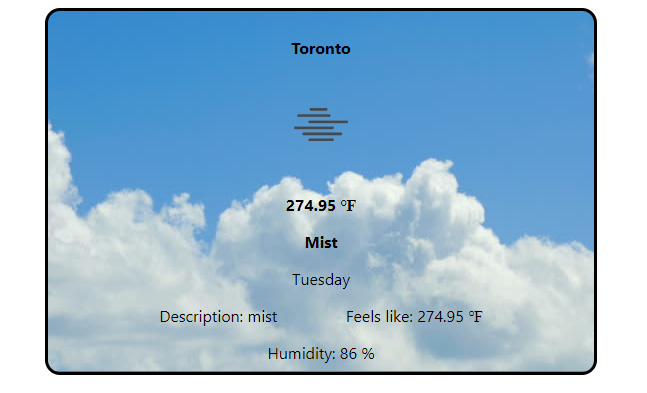
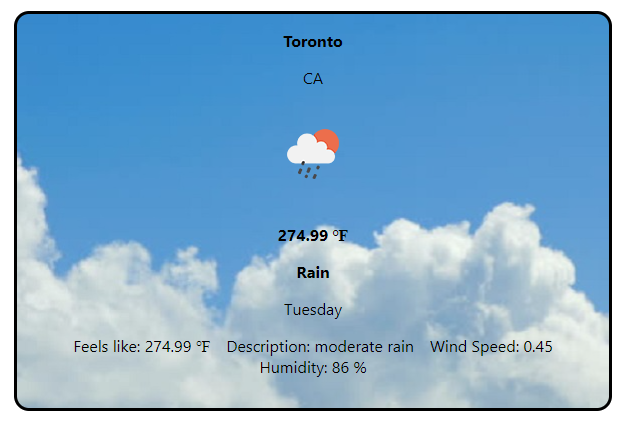
files updated!

diff --git a/src/Weather.js b/src/Weather.js
@@ -25,6 +25,9 @@ export default function GetWeather() {
                 feels_like: res.data.main.feels_like,
                 humidity: res.data.main.humidity,
                 name: res.data.name,
+                country: res.data.sys.country,
+                wind_speed: res.data.wind.speed,
+                time: res.data.timezone,
              })
         })
         .catch(error => console.log(error))
@@ -33,14 +36,18 @@ export default function GetWeather() {
     return (
         <div class='mainScreen'>
             <p class="bold">{weather.name}</p>
+            <p>{weather.country}</p>
             <div>
                 <img src={icon} alt='weatherIcon'/>
                 <p class="bold">{weather.temp} ℉</p>
                 <p class="bold">{weather.main}</p>
                 <p>{weekDay}</p>
                 <div>
-                    <p>Description: {weather.description} <tab>Feels like: {weather.feels_like} ℉ </tab>  </p>
-                    <p>Humidity: {weather.humidity} %</p>
+                    <p>
+                        Feels like: {weather.feels_like} ℉<tab>Description: {weather.description}</tab>
+                        <tab>Wind Speed: {weather.wind_speed}</tab><br/>
+                        Humidity: {weather.humidity} %
+                    </p>
                 </div>
             </div>
         </div>

diff --git a/src/App.css b/src/App.css
@@ -41,10 +41,9 @@
   background-image: url("sky.jpg");
   margin: auto;
   width: 80vh;
-  height: 52vh;
+  height: 60vh;
   border: solid;
   border-radius: 15px;
-  padding: 10px;
 }
 
 .bold {
@@ -57,5 +56,9 @@ button {
 }
 
 tab { 
-  padding-left: 4em; 
+  padding-left: 1em; 
+}
+
+tab2 { 
+  padding-left: 2em; 
 }

diff --git a/README.md b/README.md
@@ -1,5 +1,5 @@
-### COMP3123 Lab Test 2
-## Su Su Aye Aung, Student ID: 101296632
+## COMP3123 Lab Test 2
+### Su Su Aye Aung, Student ID: 101296632
 <img src="src/result.png" alt="result">
 
 # Getting Started with Create React App
